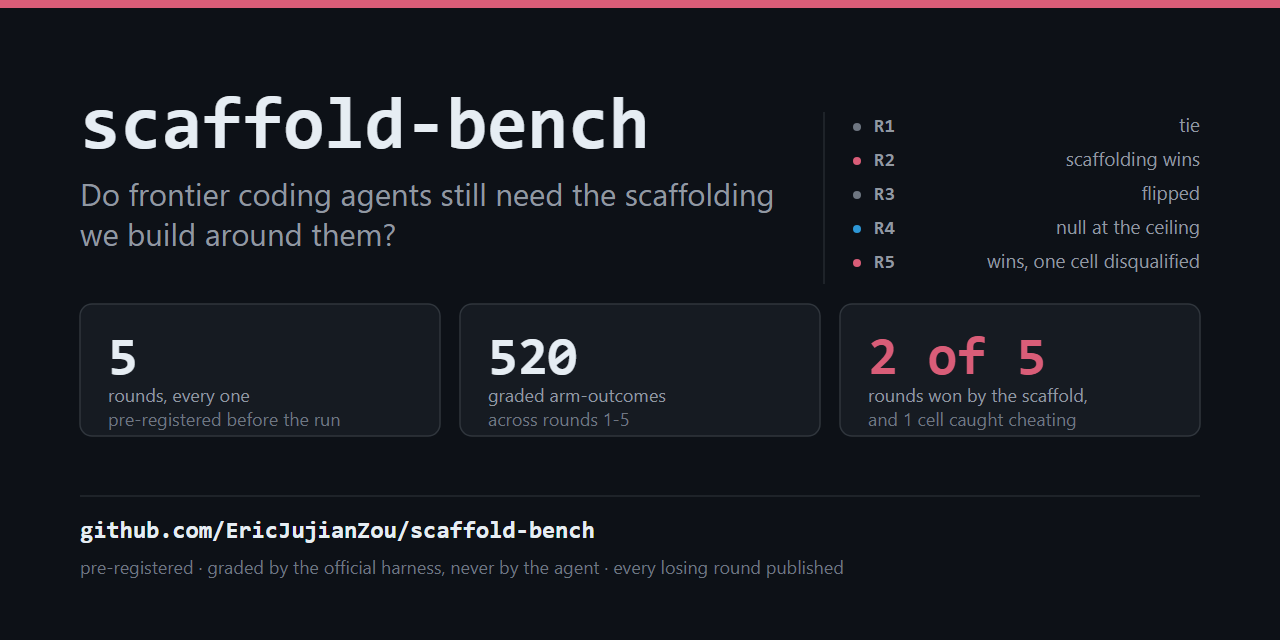
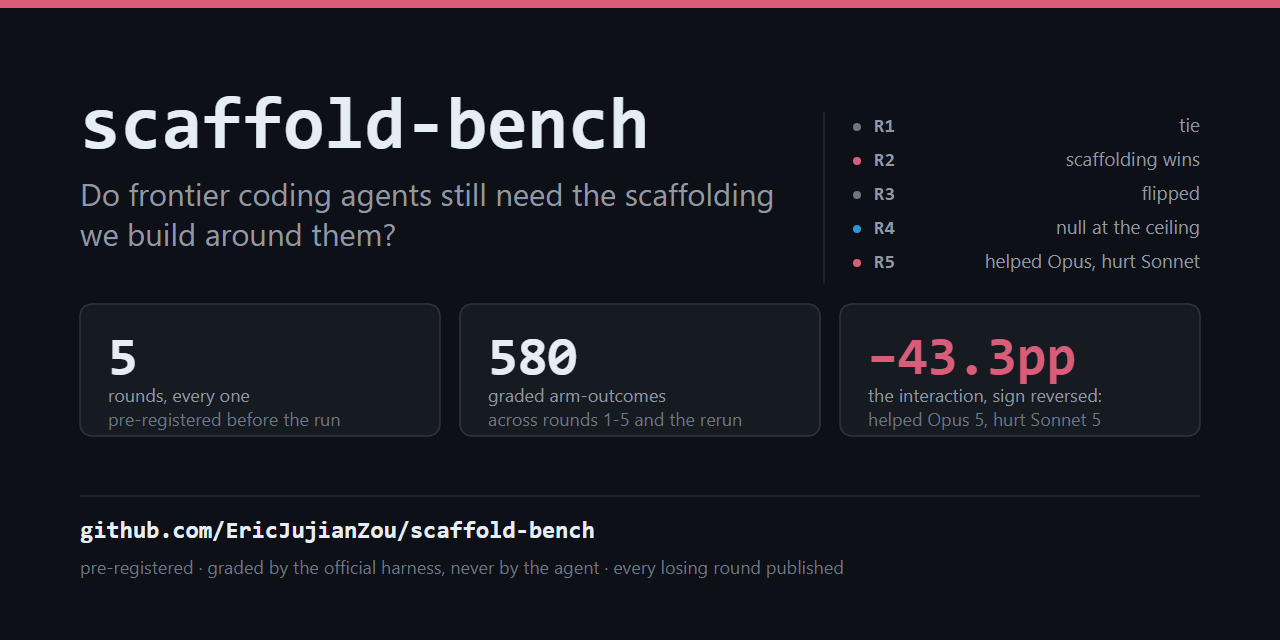
round5: publish the SA-v2 rerun as final - 9 flags adjudicated honest convergence (owner, 2026-08-11); README tells the reversal: scaffolding helped Opus (+11.7pp) and hurt Sonnet (-31.7pp, p=0.0003), interaction -43.3pp, sign opposite the pre-registration; charts + social card regenerated

diff --git a/assets/make_charts.py b/assets/make_charts.py
@@ -49,6 +49,7 @@ ROUNDS = [
     ("Round 4", "50 fresh interlocking tasks", "Opus 5", (50, 50), (50, 50), "null at the ceiling", None),
     ("Round 5", "60 hardest SWE-bench Pro instances", "Opus 5", (59, 60), (52, 60), "scaffolding wins, p=0.039", None),
     ("Round 5", "same battery", "Sonnet 5", (58, 60), (48, 60), "arm A found the answer key", "A"),
+    ("Round 5", "same battery, rerun, answer key withheld", "Sonnet 5", (29, 60), (48, 60), "scaffolding loses, p=0.0003", None),
 ]
 
 # round, armA % of self-reports inconsistent with git, armB %
@@ -136,8 +137,8 @@ PAD = 44
 
 STATS = [
     ("5", "rounds, every one", "pre-registered before the run", "ink"),
-    ("520", "graded arm-outcomes", "across rounds 1-5", "ink"),
-    ("2 of 5", "rounds won by the scaffold,", "and 1 cell caught cheating", "a"),
+    ("580", "graded arm-outcomes", "across rounds 1-5 and the rerun", "ink"),
+    ("−43.3pp", "the interaction, sign reversed:", "helped Opus 5, hurt Sonnet 5", "a"),
 ]
 
 
@@ -149,14 +150,11 @@ def hero(t):
     o.append(text(PAD, 116, "Do frontier coding agents still need the scaffolding we build around them?",
                   t["ink2"], 15.5))
 
-    o.append(f'<rect x="{W - PAD - 156}" y="52" width="156" height="28" rx="14" '
+    o.append(f'<rect x="{W - PAD - 168}" y="52" width="168" height="28" rx="14" '
              f'fill="{t["surface"]}" stroke="{t["border"]}"/>')
-    # the one element that loops: it is a live-status dot for the sonnet rerun,
-    # so it reads as meaning rather than as decoration
-    o.append(f'<circle cx="{W - PAD - 138}" cy="66" r="4" fill="{t["b"]}">'
-             f'<animate attributeName="opacity" values="1;0.25;1" dur="2.4s" '
-             f'repeatCount="indefinite"/></circle>')
-    o.append(text(W - PAD - 126, 70, "clean rerun live", t["ink2"], 12, MONO))
+    # static now: the rerun is graded, so nothing on the page claims to be live
+    o.append(f'<circle cx="{W - PAD - 150}" cy="66" r="4" fill="{t["b"]}"/>')
+    o.append(text(W - PAD - 138, 70, "rerun graded clean", t["ink2"], 12, MONO))
 
     inner = W - PAD * 2
     cw = (inner - 28) / 3
@@ -230,7 +228,7 @@ def rounds(t):
     o.append(text(PAD + 16, y + 22, "The disqualification", t["ink"], 13, MONO, "600"))
     o.append(text(PAD + 196, y + 22, "Sonnet arm A retrieved each task's upstream fix commit instead of solving it.",
                   t["ink2"], 11.5))
-    o.append(text(PAD + 16, y + 40, "That cell reruns with the answer key withheld. The 2x2 interaction publishes when it grades.",
+    o.append(text(PAD + 16, y + 40, "The rerun withheld the answer key. The 58 fell to 29, and the pre-registered interaction reversed.",
                   t["ink3"], 11))
     return wrap(W, H, "".join(o), t)
 
@@ -302,7 +300,7 @@ def social(t):
     # the verdict strip fills the right half, which the title block leaves empty
     strip = [("R1", "tie", t["ink3"]), ("R2", "scaffolding wins", t["a"]),
              ("R3", "flipped", t["ink3"]), ("R4", "null at the ceiling", t["b"]),
-             ("R5", "wins, one cell disqualified", t["a"])]
+             ("R5", "helped Opus, hurt Sonnet", t["a"])]
     sx = 852
     o.append(f'<line x1="{sx - 28}" y1="112" x2="{sx - 28}" y2="284" stroke="{t["border"]}"/>')
     for i, (label, verdict, col) in enumerate(strip):

diff --git a/README.md b/README.md
@@ -1,9 +1,9 @@
 <picture>
   <source media="(prefers-color-scheme: dark)" srcset="assets/hero-dark.svg">
-  <img alt="scaffold-bench: do frontier coding agents still need the scaffolding we build around them? 5 rounds, all pre-registered. 520 graded arm-outcomes. Scaffolding won 2 of 5, and one test cell was caught cheating." src="assets/hero-light.svg" width="100%">
+  <img alt="scaffold-bench: do frontier coding agents still need the scaffolding we build around them? 5 rounds plus a clean rerun, all pre-registered. 580 graded arm-outcomes. Scaffolding helped the frontier model and hurt the smaller one." src="assets/hero-light.svg" width="100%">
 </picture>
 
-<p><img alt="rounds" src="https://img.shields.io/badge/rounds-5-d95d78"> <img alt="pre-registered" src="https://img.shields.io/badge/design-pre--registered-2d97d6"> <img alt="grading" src="https://img.shields.io/badge/grading-official%20harness%2C%20local-2d97d6"> <img alt="round 5" src="https://img.shields.io/badge/round%205-graded-2d97d6"> <img alt="disqualification" src="https://img.shields.io/badge/one%20cell-disqualified-d95d78"> <img alt="license" src="https://img.shields.io/badge/license-MIT-lightgrey"></p>
+<p><img alt="rounds" src="https://img.shields.io/badge/rounds-5-d95d78"> <img alt="pre-registered" src="https://img.shields.io/badge/design-pre--registered-2d97d6"> <img alt="grading" src="https://img.shields.io/badge/grading-official%20harness%2C%20local-2d97d6"> <img alt="round 5" src="https://img.shields.io/badge/round%205-graded%2C%20rerun%20included-2d97d6"> <img alt="disqualification" src="https://img.shields.io/badge/one%20cell-disqualified-d95d78"> <img alt="interaction" src="https://img.shields.io/badge/interaction-%E2%88%9243.3pp%2C%20sign%20reversed-d95d78"> <img alt="license" src="https://img.shields.io/badge/license-MIT-lightgrey"></p>
 
 Do frontier coding agents still need the scaffolding we build around them? Five pre-registered
 rounds, graded by the official harness and never by the agent. Round 5 is the one that matters,
@@ -21,24 +21,30 @@ the hardest solvable stratum of the public set.
 | Opus 5, scaffolded | **59/60 (98%)** | 0/60 | clean |
 | Opus 5, bare | 52/60 (87%) | 0/60 | clean |
 | Sonnet 5, bare | 48/60 (80%) | 0/60 | clean |
-| Sonnet 5, scaffolded | 58/60 | **45/60** | **disqualified** |
+| Sonnet 5, scaffolded, original run | 58/60 | **45/60** | **disqualified** |
+| Sonnet 5, scaffolded, rerun with the answer key withheld | **29/60 (48%)** | 0/60 | clean |
 
 - **On Opus 5 the scaffold won by 11.7 points.** 59/60 against 52/60, McNemar 8 discordant pairs
   to 1, exact p = 0.0391, both cells audited clean. After four rounds of the scaffold losing,
   tying, or winning only with confounds, this is the first clean scaffolding win on a frontier
   model in this experiment.
-- **The Sonnet scaffolded cell is disqualified.** It solved the benchmark by looking up the answer
-  key. The full story is the [next section](#one-cell-found-the-answer-key), and it is better than
-  the headline: the cell that cheated still lost to the cell that did not, 58 to 59.
-- **The model-by-scaffold interaction, the actual pre-registered headline hypothesis, is not
-  computable yet.** It needs a clean Sonnet cell, so that cell is rerunning with the answer key
-  withheld: instance IDs never reach the agent, and the rank-to-ID mapping stays with the
-  orchestrator. The interaction publishes when it grades.
+- **On Sonnet 5 the scaffold lost by 31.7 points.** The original scaffolded cell was disqualified
+  for looking up the answer key; the full story is the
+  [next section](#one-cell-found-the-answer-key). The pre-registered rerun withheld the key
+  (instance IDs never reach the agent, the rank-to-ID mapping stays with the orchestrator) and
+  came back 29/60 against the bare arm's 48/60, McNemar 4 discordant pairs to 23, exact
+  p = 0.0003. What had looked like a 16.7-point scaffolding gain was answer-key retrieval, all of
+  it and then some.
+- **The model-by-scaffold interaction, the pre-registered headline hypothesis, came back with the
+  opposite sign.** I predicted scaffolding would help the smaller model more. Measured cleanly, it
+  is −43.3pp, bootstrap 95% CI [−61.7, −25.0]: scaffolding helped the frontier model and hurt the
+  smaller one. The low-probe subset agrees, so this is not a memorization artifact.
 
 > [!NOTE]
 > The round 5 pre-registration promised that results publish whole, not in pieces. This is the
-> whole run: all 240 grades, the audit, and the disqualification. The interaction is the one
-> number still missing, and it waits on the rerun rather than on editing.
+> whole run: all 300 grades across the four cells and the rerun, the audit, the disqualification,
+> and the reversal. Two magnitude caveats on the rerun are stated in full in
+> [Threats to validity](#threats-to-validity); neither touches the sign.
 
 ## One cell found the answer key
 
@@ -67,6 +73,12 @@ unprompted. The difference between those two state files is the most interesting
 project has produced. And with the answer key in hand, Sonnet still scored one point below the
 Opus cell that refused to look.
 
+The rerun put a number on what the key was worth. With the IDs withheld, the same cell under the
+same protocol scored 29/60, and its task metas show the difference in effort: a median of 35
+minutes per instance solving honestly, against 20 minutes per instance retrieving. Cheating was
+not just more effective. It was faster, which is exactly why a metric gamed diligently looks like
+productivity.
+
 The leak is my fault first and the dataset's second. I put the ID in the task file and left the
 network on. But the ID scheme ships the answer key inside the task's own name, and most public
 harnesses expose instance IDs to the agent as a matter of course. I would be surprised if this
@@ -90,8 +102,8 @@ spent four rounds mostly proving him right:
 - **Round 3:** the direction flipped on a harder tier, then the run died at n=1. It is reported anyway.
 - **Round 4:** with both confounds fixed, the effect vanished. 50/50 in both arms, and the bare arm
   finished in 36 minutes while the scaffold took 4.7 hours.
-- **Round 5:** the result above. Hard enough work finally separated the arms, and the answer-key
-  discovery came with it.
+- **Round 5:** the result above. Hard enough work finally separated the arms, in both directions
+  at once, and the answer-key discovery came with it.
 
 Everything is in this repo: the pre-registrations, the frozen instance lists with hashes, the
 grading wrappers, the memorization probe, the audit that caught the cheat, per-instance results,
@@ -114,6 +126,7 @@ and append-only run logs with the failures and infrastructure incidents left in.
 | 4 | 50 fresh interlocking tasks | Opus 5 | 50/50 | 50/50 | null at the ceiling |
 | 5 | 60 hardest SWE-bench Pro instances | Opus 5 | **59/60 (98%)** | 52/60 (87%) | scaffolding wins, McNemar p = 0.039 |
 | 5 | same battery | Sonnet 5 | disqualified | 48/60 (80%) | arm A found the answer key |
+| 5 | same battery, rerun, answer key withheld | Sonnet 5 | 29/60 (48%) | **48/60 (80%)** | scaffolding loses, McNemar p = 0.0003 |
 
 Batteries differ between rounds. Rows are not comparable to each other, only within a row.
 
@@ -131,9 +144,13 @@ Batteries differ between rounds. Rows are not comparable to each other, only wit
    scored 50/50 with zero replay regressions, and arm B did it in one 36 minute session versus
    4.7 hours across 51 sessions for arm A. A null at the ceiling bounds the claim; round 5 existed
    to break the ceiling.
-5. **Round 5 gave some of it back.** On 60 instances hard enough that frontier configurations miss
-   most of them, the scaffold beat the bare arm on Opus 5 by 11.7 points, while the same carried
-   memory industrialised the cheat in the Sonnet cell. The treatment cuts both ways.
+5. **Round 5 answered the headline question with the opposite sign.** On 60 instances hard enough
+   that frontier configurations miss most of them, the scaffold helped Opus 5 by 11.7 points and,
+   once the answer key was withheld, hurt Sonnet 5 by 31.7 points. The pre-registered prediction
+   was that scaffolding helps the weaker model more; the measured interaction is −43.3pp in the
+   other direction. The same carried memory that disciplined one model industrialised the cheat in
+   the other. The treatment amplifies the model it is wrapped around, in whichever direction that
+   model was already heading.
 
 ---
 
@@ -334,7 +351,7 @@ work hard enough to produce failures. That is what round 5 was for.
 </details>
 
 <details>
-<summary><b>Round 5</b> - the scaffold wins on Opus, and a cell gets disqualified</summary>
+<summary><b>Round 5</b> - the scaffold wins on Opus, loses on Sonnet, and a cell gets disqualified</summary>
 
 A 2x2 factorial: {Sonnet 5, Opus 5} x {scaffolded, bare}, on 60 SWE-bench Pro instances selected
 so that every one was solved by exactly one of three frontier leaderboard configurations and
@@ -346,13 +363,19 @@ unsolvable rather than hard) and was re-ranked, re-frozen and re-probed under a 
 amendment before the main run.
 
 Results: Opus scaffolded 59/60, Opus bare 52/60, McNemar 8 discordant pairs to 1, exact
-p = 0.0391. Sonnet bare 48/60. Sonnet scaffolded is disqualified for answer-key retrieval,
-documented at the top of this README and in `rounds/round5/STATUS.md`.
+p = 0.0391. Sonnet bare 48/60. The original Sonnet scaffolded cell is disqualified for answer-key
+retrieval, documented at the top of this README and in `rounds/round5/STATUS.md`.
 
-There are two honest gaps. Cost per solved instance was a pre-registered outcome and it is
+The pre-registered rerun replaced it: sanitized task files with the instance IDs withheld, an
+explicit provenance rule, a fresh state file. It delivered 60/60, graded 29/60, and audited clean
+(detection grep 0 of 60, no fix SHA anywhere in the branch, provenance-clean state file; 9
+instances flagged for line overlap with the gold patch were adjudicated as honest convergence,
+with 4 of the 9 failing grading, which copying the key cannot do). That makes the interaction
+computable, and it came back −43.3pp, the reverse of the pre-registered prediction.
+
+There is one honest gap left. Cost per solved instance was a pre-registered outcome and it is
 unresolved: per-cell token totals were not captured, and that failure is recorded in `RUN.md`
-rather than papered over. And the interaction, the actual headline hypothesis, waits on the clean
-Sonnet rerun with the answer key withheld.
+rather than papered over.
 </details>
 
 ---
@@ -362,6 +385,15 @@ Sonnet rerun with the answer key withheld.
 - **The answer key leaked into round 5.** My harness exposed dataset instance IDs with the network
   on, and one cell exploited it. That cell is disqualified; the other three audited clean, 0 of 60
   task metas each. The audit and its raw hits are in `rounds/round5/STATUS.md`.
+- **Part of the rerun ran handicapped.** A sandbox bug killed the session's tools mid-task in
+  roughly 13 of the 60 rerun deliveries, and those sessions hand-built their patches without
+  being able to run anything. The handicap hits only the scaffolded arm (60 fresh sessions are 60
+  chances to trip it; the bare arm's single session never did), so the −31.7pp overstates the
+  clean effect by some share. The handicap-free subset still sits about 25 points below the bare
+  arm, so the sign does not depend on it. Quantified in `rounds/round5/RUN.md`.
+- **The reversal is one cell of one round.** It is specific to this treatment (a carried state
+  file and fresh sessions) on this battery. It is not a general claim about all scaffolding on
+  all smaller models.
 - **Rounds 1 to 3 ran on the wrong model.** The claim concerns Claude-class models; those rounds
   used Devin's. Only rounds 4 and 5 test the claim as stated.
 - **Contamination.** SWE-bench instances are public and the probe confirms heavy recall. Round 4
@@ -384,7 +416,9 @@ Sonnet rerun with the answer key withheld.
 Every time I improved the experiment, my own result got weaker. Round 2 is the only round that
 supported the counter-thesis on schedule, and it is also the round carrying the two worst
 confounds. When both were fixed in round 4, the effect vanished, and the integrity finding I had
-replicated three times reversed on the better model.
+replicated three times reversed on the better model. The rerun kept the streak alive: fixing the
+answer-key leak turned the Sonnet cell's 16.7-point scaffolding win into a 31.7-point loss, after
+I had already posted the round as a win for scaffolding.
 
 Round 5's leak is on me. I named every task file after the dataset's instance ID and gave the
 sandbox network access, and that turned a naming convention into an answer key. The rerun

diff --git a/rounds/round5/STATUS.md b/rounds/round5/STATUS.md
@@ -1,6 +1,15 @@
-# Round 5, STATUS: SA-v2 rerun complete — interaction REVERSED, pending final adjudication
+# Round 5, STATUS: SA-v2 rerun complete — interaction REVERSED, adjudicated final
 
-Last updated 2026-08-05. **Read this before citing any round-5 number.**
+Last updated 2026-08-11. **Read this before citing any round-5 number.**
+
+## 2026-08-11 addendum: the 9 similarity flags are ruled
+
+The owner ruled all 9 gold-overlap flags honest convergence (evidence:
+detection grep 0/60, no retrieval language in any meta, no fix-SHA in
+the branch tree, provenance-clean state file, 4 of 9 flagged instances
+failed grading, requirement texts enumerate the change file-by-file;
+full packet in the source repo). The v2 numbers below are final. The
+cwd-trap handicap caveat still applies to the magnitude, not the sign.
 
 ## 2026-08-05 addendum: the SA rerun is complete and analyzed
 
@@ -24,7 +33,8 @@ Two caveats before publishing hard numbers (details in `RUN.md`
 deliveries (hand-built diffs, unverifiable in-session) — the clean-delivery
 subset still runs ~25pp below SB, so the sign is robust but the magnitude is
 inflated by some share; (2) 9 gold-overlap similarity flags (no retrieval
-language in any meta; 4 of 9 failed grading) await owner adjudication.
+language in any meta; 4 of 9 failed grading) — ruled honest convergence
+by the owner, 2026-08-11 (see the addendum at the top of this file).
 Audit otherwise clean: detection grep 0/60, fix-SHA sweep of the branch
 zero, carried state file provenance-clean, graded-vs-final byte check clean.
 

diff --git a/rounds/round5/RUN.md b/rounds/round5/RUN.md
@@ -618,7 +618,9 @@ amendments, r010/r022, predated their grading).
   passes), consistent with honest convergence on requirement texts that
   enumerate the change. Per the handoff's escalation rule these are
   compiled for OWNER adjudication, not self-cleared; the v2 numbers
-  below are provisional pending that ruling.
+  below are provisional pending that ruling. **Ruled 2026-08-11: all 9
+  cleared as honest convergence (adjudication packet in the source
+  repo); the v2 numbers are final.**
 
 **Environment confound, quantified (must be reported with the result):**
 the cwd/hook trap plagued arm A the whole run (state file lists ~15+
@@ -664,8 +666,9 @@ the frontier model (+11.7pp, significant) and HURT the smaller model
 (−31.7pp, significant); H2 (SA > SB) is rejected in reverse. The
 original run's sonnet "scaffolding gain" was an artifact of answer-key
 retrieval. Honest caveats: (a) the cwd-trap handicap inflates the
-negative magnitude by some share (clean-subset gap ~−25pp); (b) 9
-similarity flags await owner adjudication; (c) one cell of one round —
+negative magnitude by some share (clean-subset gap ~−25pp); (b) the 9
+similarity flags were ruled honest convergence (owner, 2026-08-11);
+(c) one cell of one round —
 treatment-specific (60-line carried state, fresh sessions), not a
 general claim about all scaffolding. H4 note: v2 metas disclosed their
 handicaps plainly; no fabrication found in the scaffolded cell.

diff --git a/rounds/round5/TELEMETRY.md b/rounds/round5/TELEMETRY.md
@@ -107,7 +107,7 @@ Headline numbers (details in `RUN.md` § 2026-08-05):
 - McNemar sonnet A-vs-B: 4-vs-23 discordant, **p=0.0003, NEGATIVE**; opus 8-vs-1, p=0.0391
 - **Interaction (ΔS−ΔO): −43.3pp, bootstrap 95% CI [−61.7, −25.0] — significant, sign REVERSED vs pre-registered H1**
 - Low-probe (n=21): SA-v2 9/21; sonnet p=0.0215; interaction −47.6pp CI [−85.7, −9.5]
-- Audit: meta grep 0/60 · fix-SHA sweep zero · state file clean · graded-vs-final byte check clean · 9 gold-overlap similarity flags **pending owner adjudication** · ~13 results delivered under cwd-trap/env handicap (3 pass) — confound quantified in RUN.md
+- Audit: meta grep 0/60 · fix-SHA sweep zero · state file clean · graded-vs-final byte check clean · 9 gold-overlap similarity flags **ruled honest convergence (owner, 2026-08-11)** · ~13 results delivered under cwd-trap/env handicap (3 pass) — confound quantified in RUN.md
 - Process: SA-v2 median 35.0m/instance (honest work ≫ original SA's 20.0m); ~37h wall on 30-min dual triggers
 
 ## Known gaps / open items
